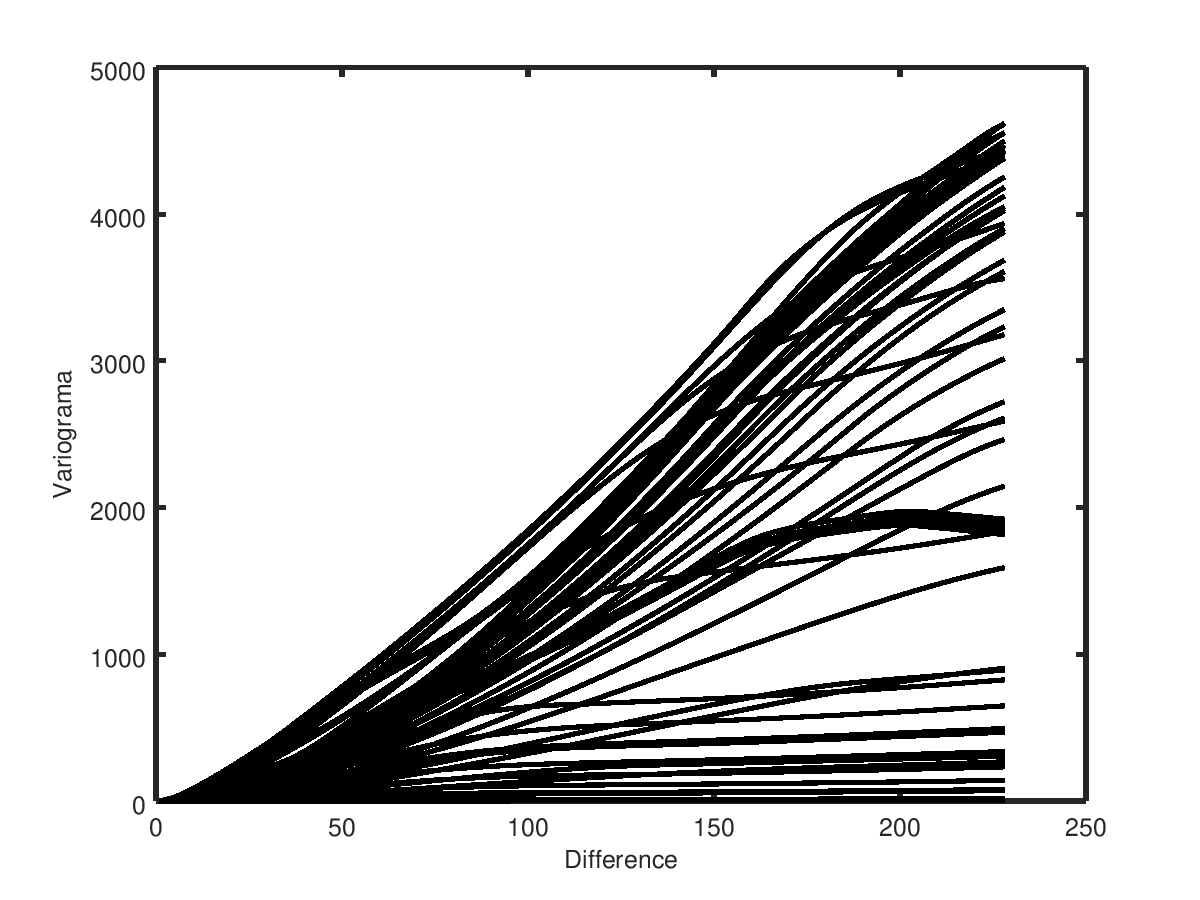
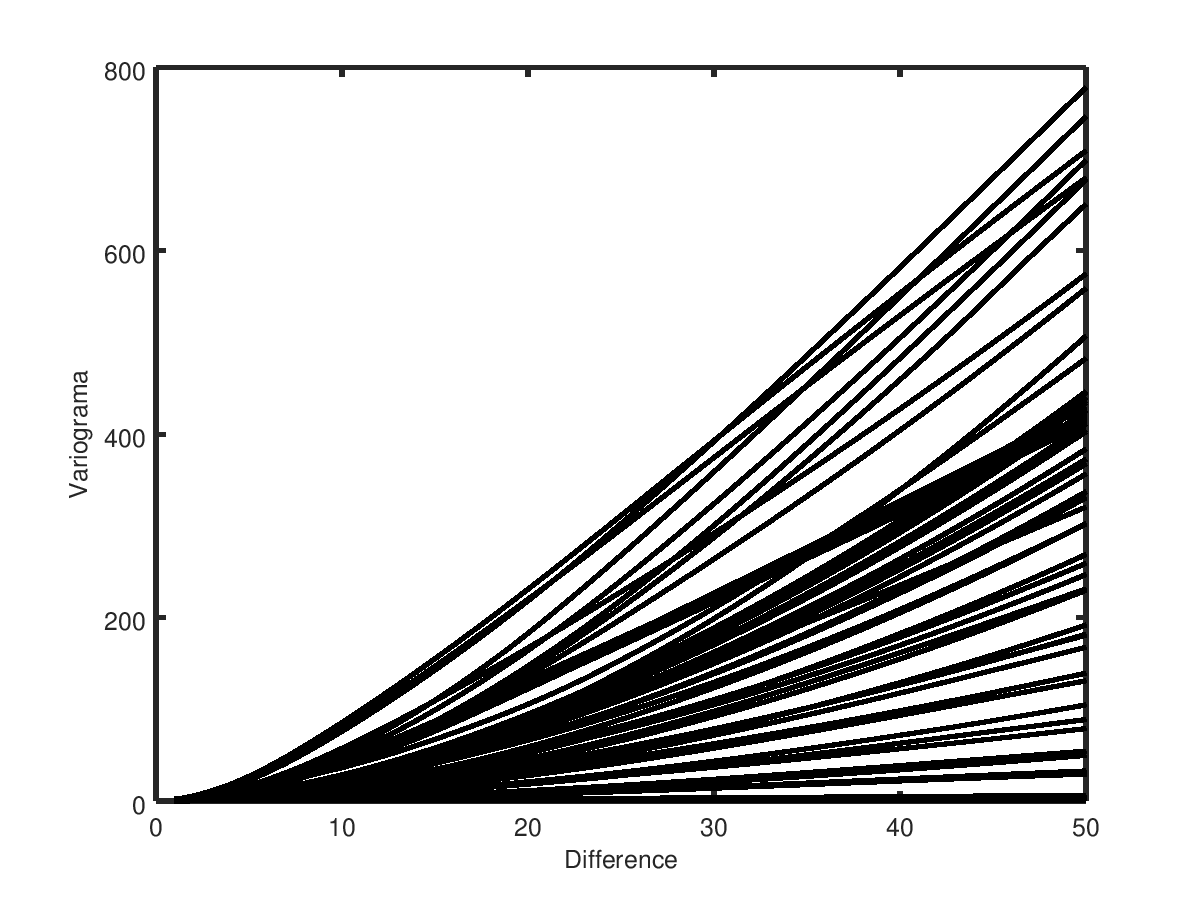
Mejorando o codigo para que sea mas justo

diff --git a/mcode_variograma2/test_variograma2.m b/mcode_variograma2/test_variograma2.m
@@ -44,8 +44,8 @@ end
 disp('');
 
 
-MALL=min(LEN_VARS);
-M=round(MALL/3); %%% quanto vou a variacionar 1/3 del ancho de la foto
+% MALL=min(LEN_VARS);
+M=50; %% round(MALL/3); %%% quanto vou a variacionar 1/3 del ancho de la foto
 VARS_MAT=zeros(N,M);
 for II=1:N
     VARS_MAT(II,:)=VARS{II}(1:M);
@@ -61,6 +61,6 @@ plot_variogram_curves(VARS_MAT,OUTPUTDIR,DAT);
 figure
 plot_2_curve_blocks(curves1,curves2,c1,c2,OUTPUTDIR,DAT);
 
-Vvalue=mean(max(VARS_MAT))
+Vvalue=mean(VARS_MAT(:,end))
 save (fullfile(OUTPUTDIR,'Vvalue.txt'), "Vvalue")
 
